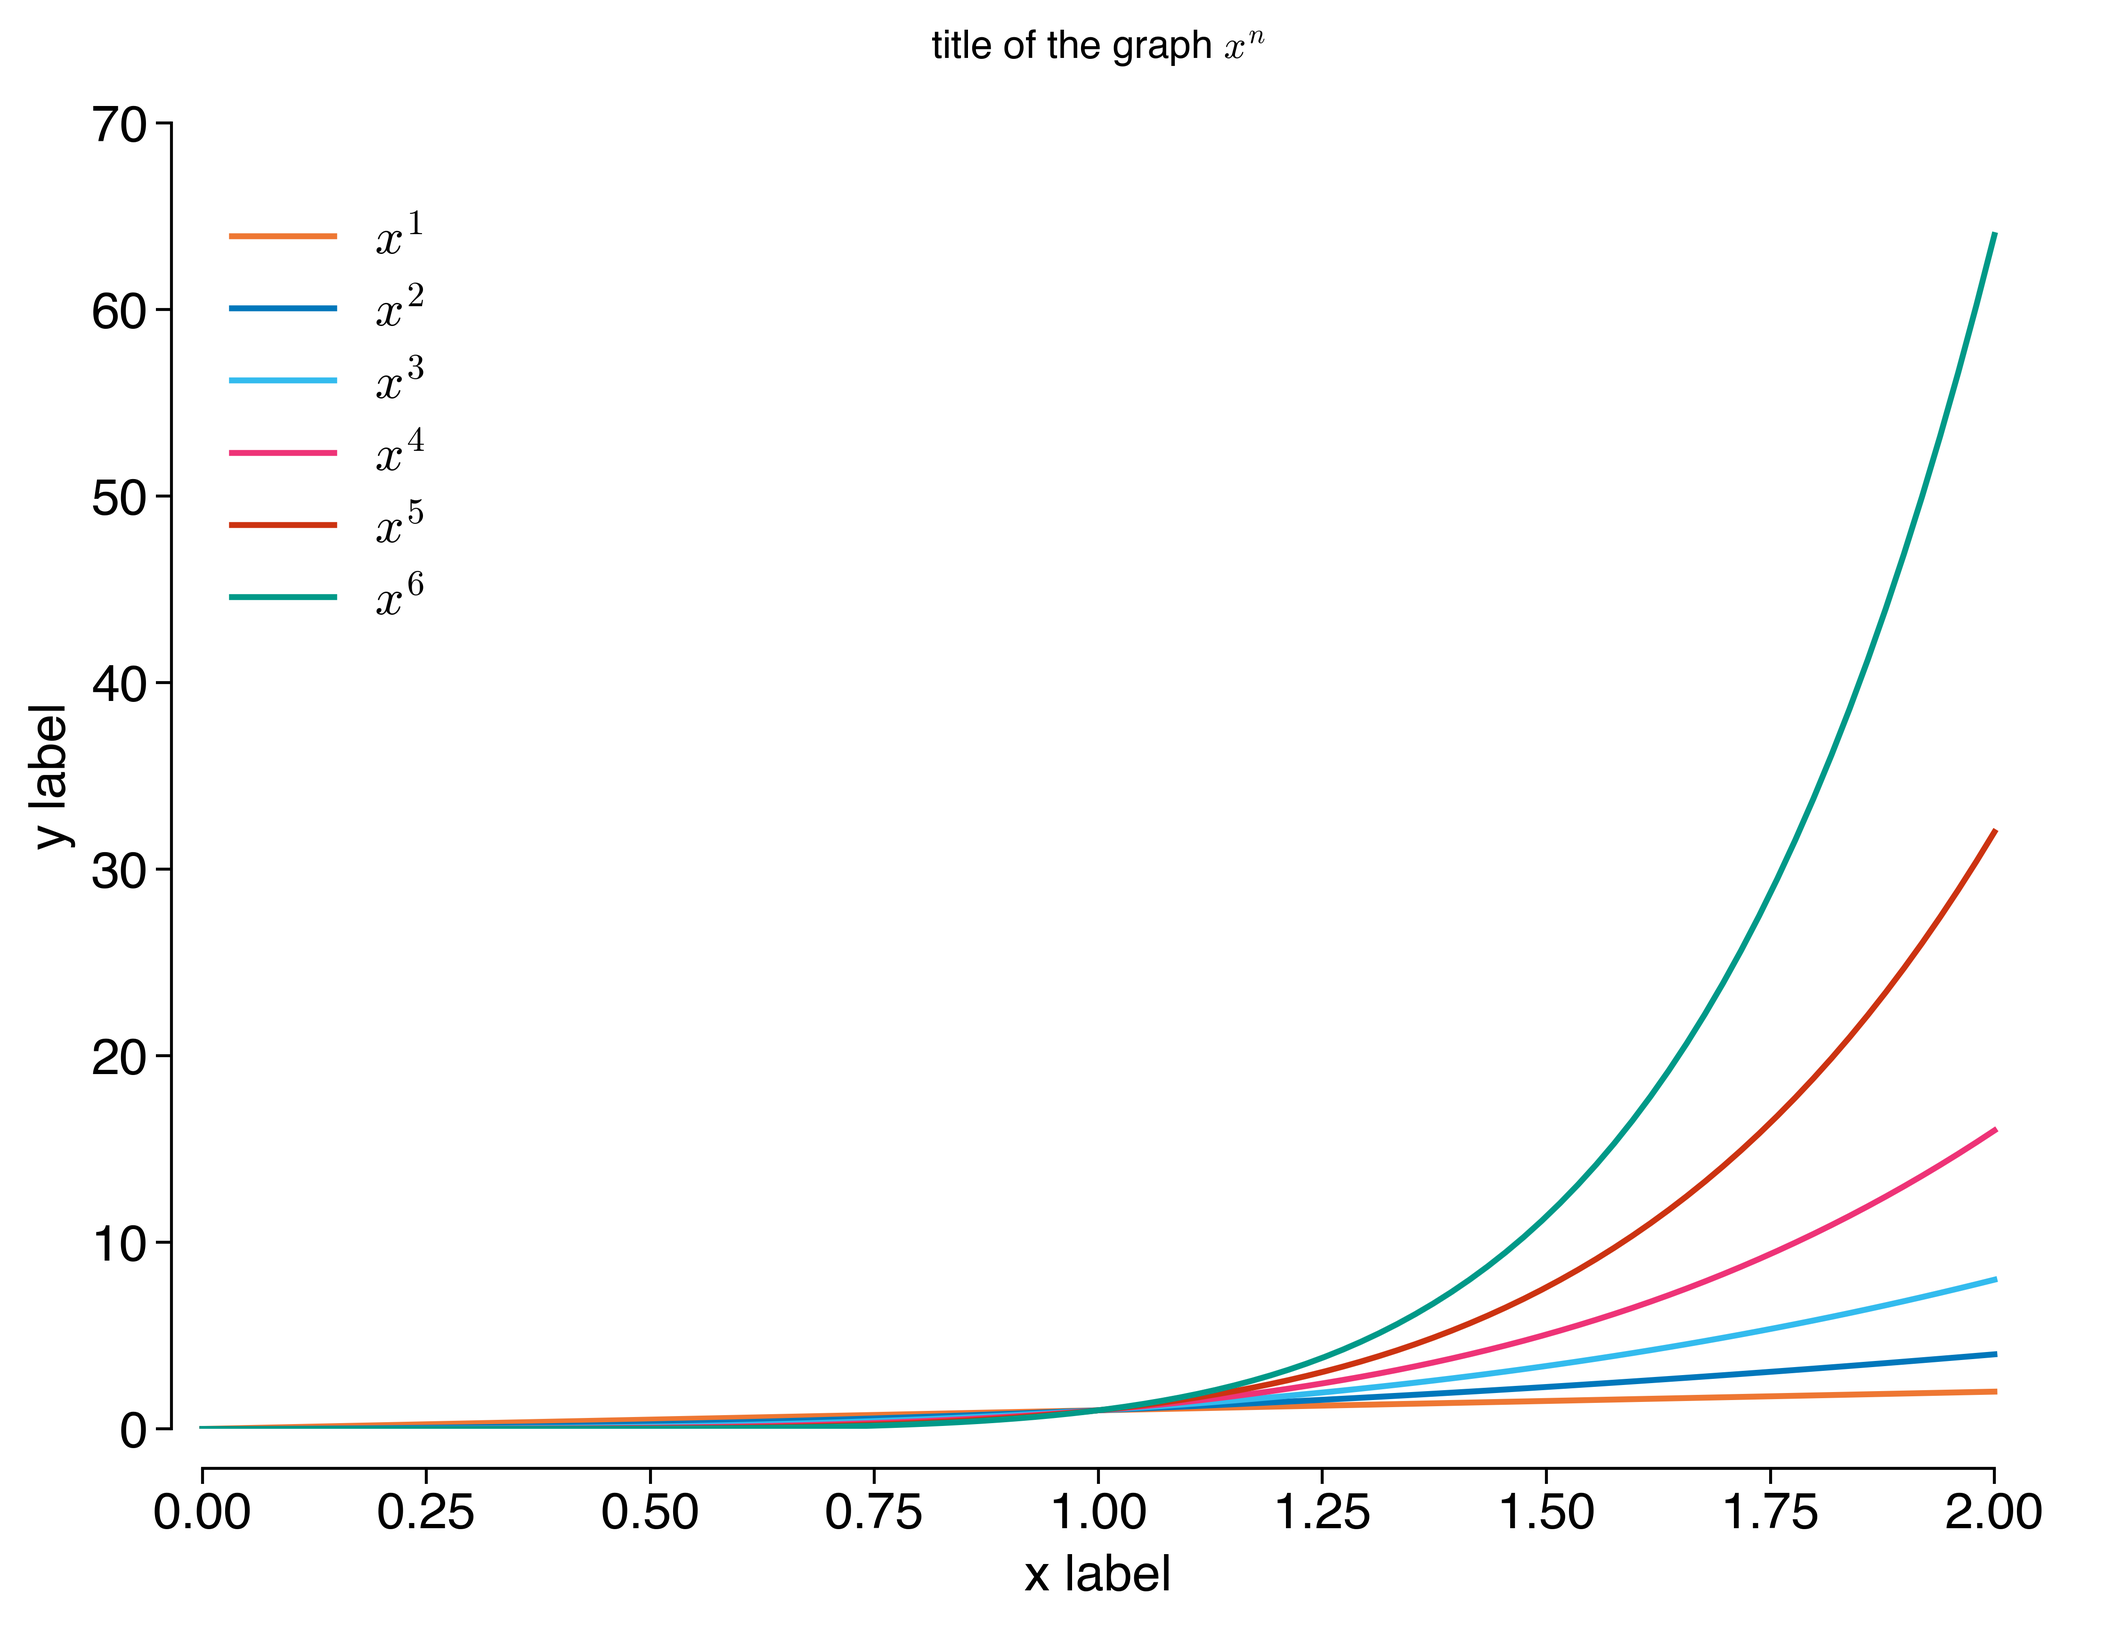
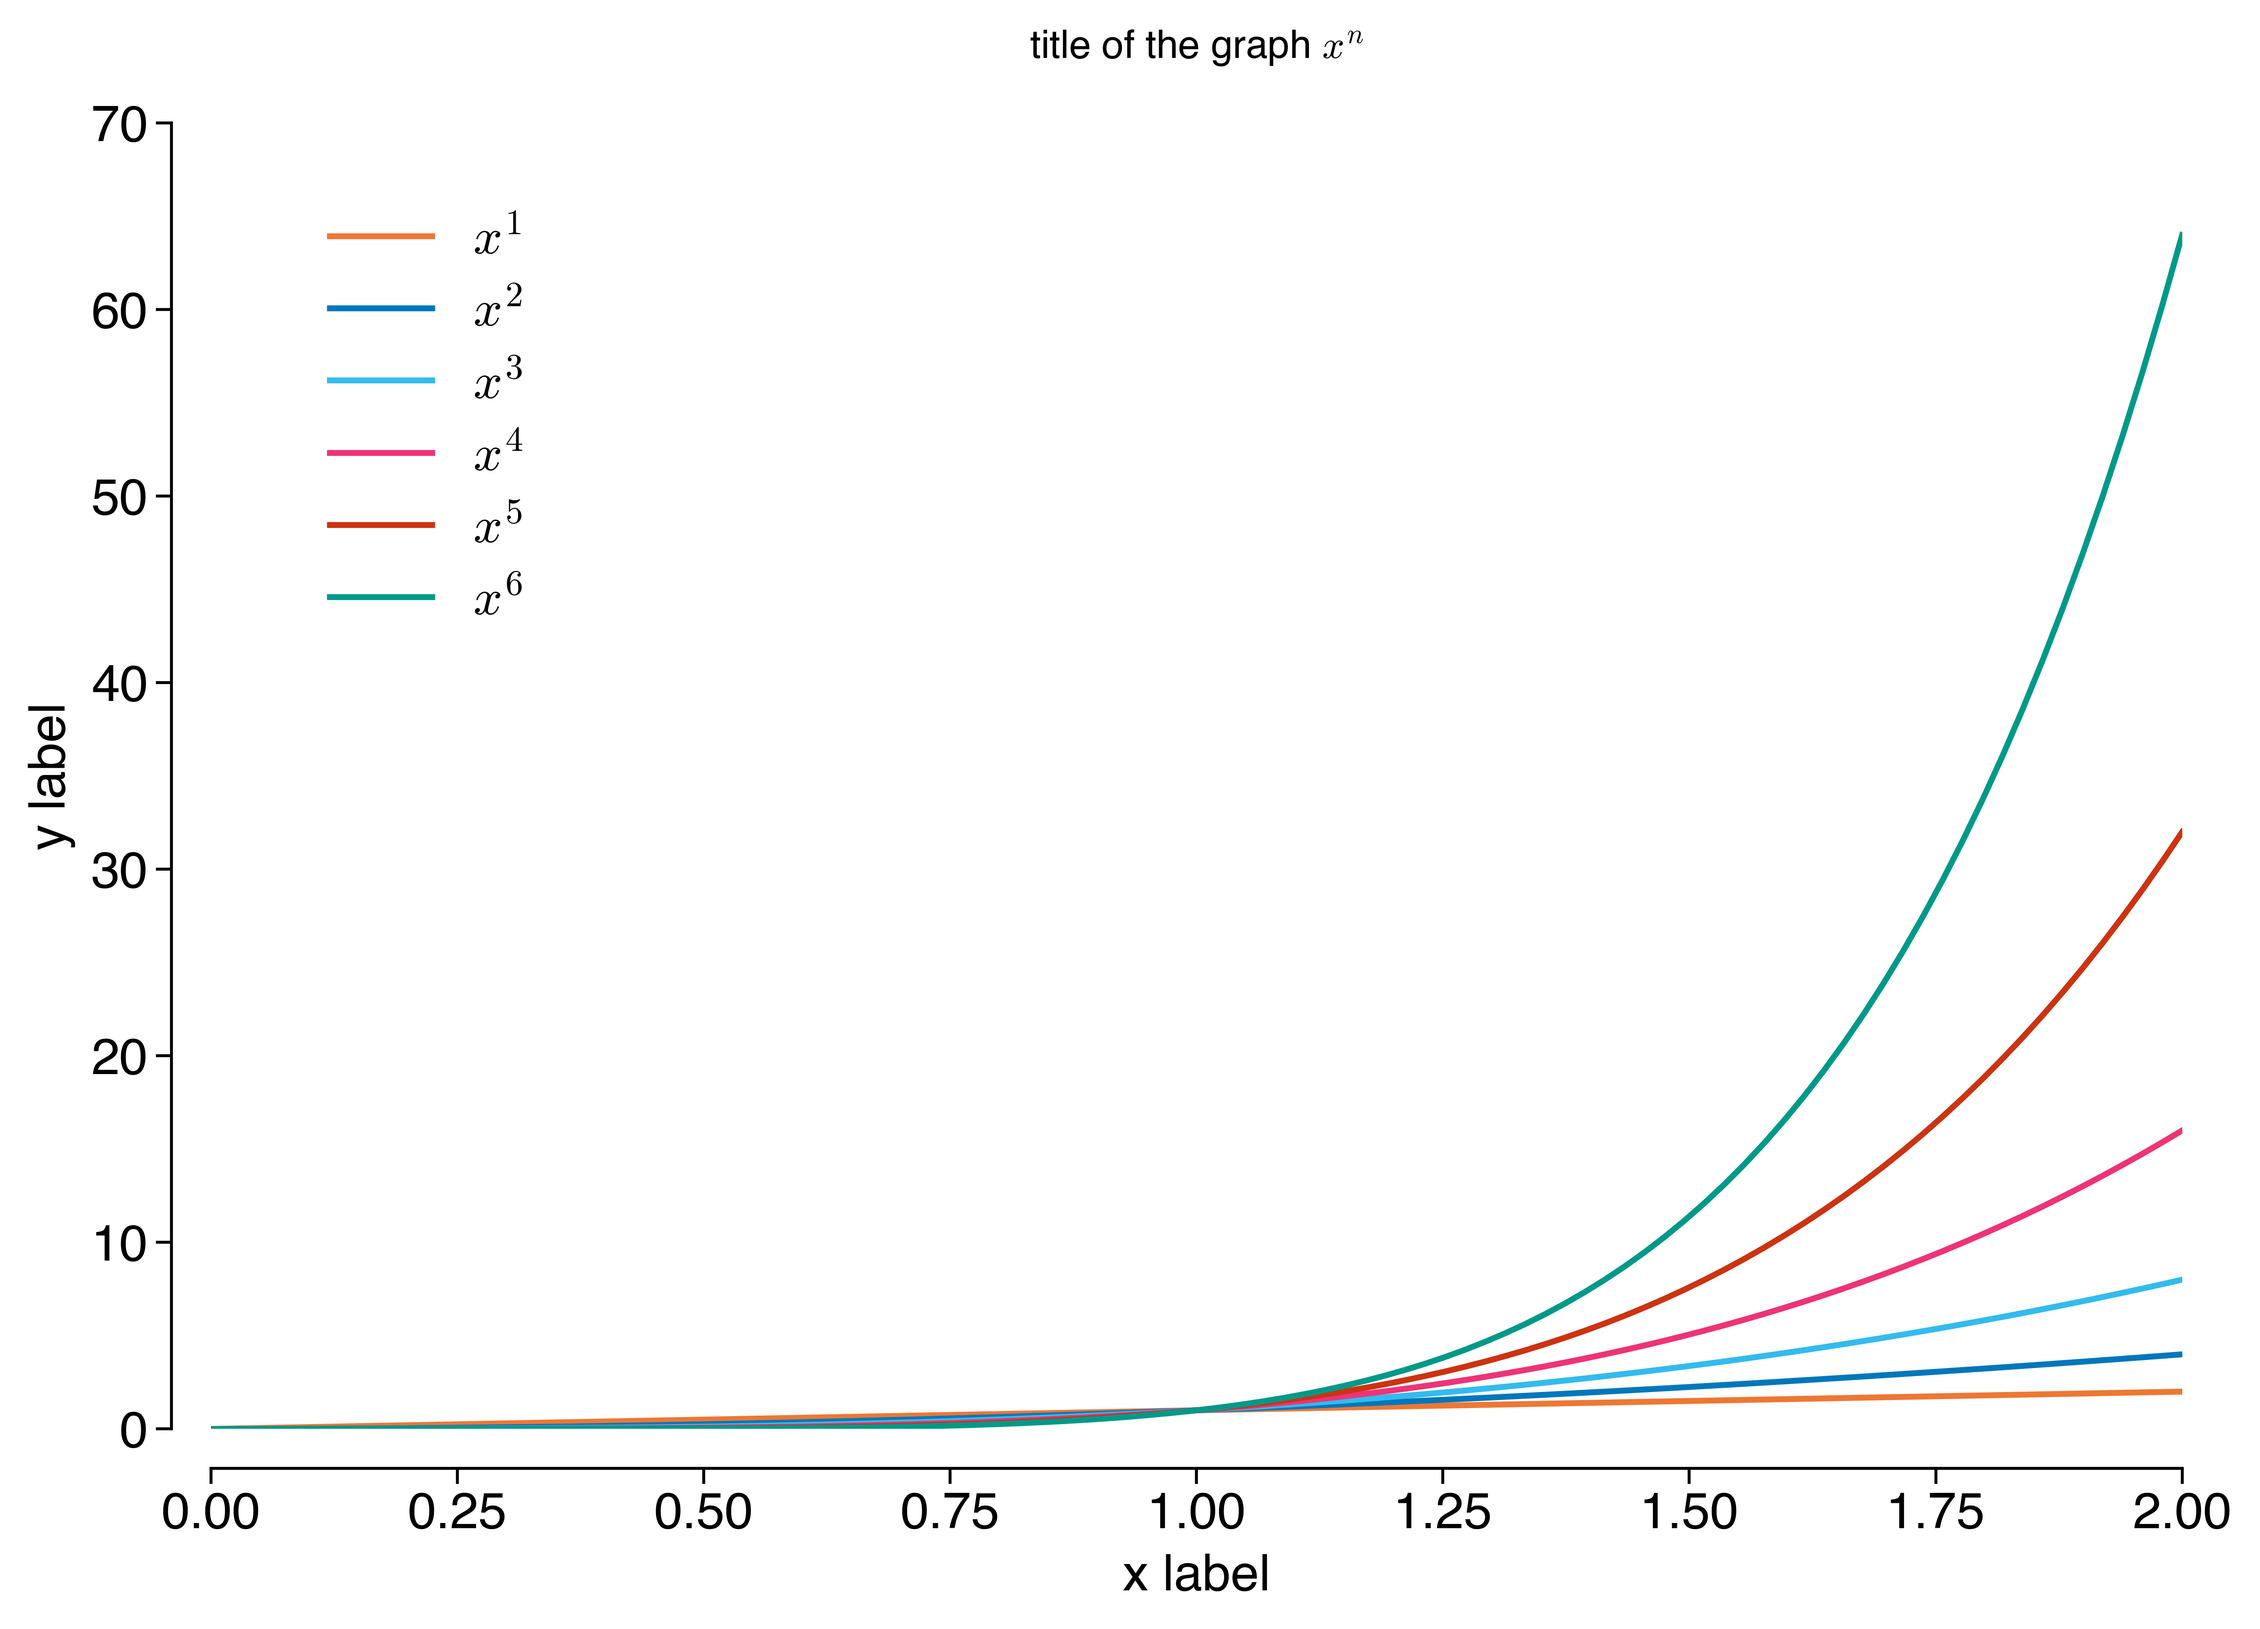
example.py: update figure with manual bounds

diff --git a/example.py b/example.py
@@ -23,6 +23,8 @@ ax.plot(x, x**6, label=r'$x^6$')
 ax.set_xlabel('x label')
 ax.set_ylabel('y label')
 
+# manually set bounds as set_smart_bounds no longer exists
+ax.set_xlim(0, 2)
 ax.set_ylim(0, 70)
 
 ax.legend(loc=(0.05,0.6))
@@ -30,8 +32,8 @@ ax.legend(loc=(0.05,0.6))
 # see local_mpl_config.set_title() documentation
 lmc.set_title(r'title of the graph $x^n$')
 
-# display only the left and bottom axes
-lmc.adjust_spines(ax, ['left', 'bottom'], amounts={'left': -15, 'bottom': 10})
+# display only the left and bottom axes, and move them outward a bit
+lmc.adjust_spines(ax, ['left', 'bottom'], amounts={'left': 10, 'bottom': 10})
 lmc.adjust_ticks(ax)
 
 # run "example.py", saves to "example.pdf"
